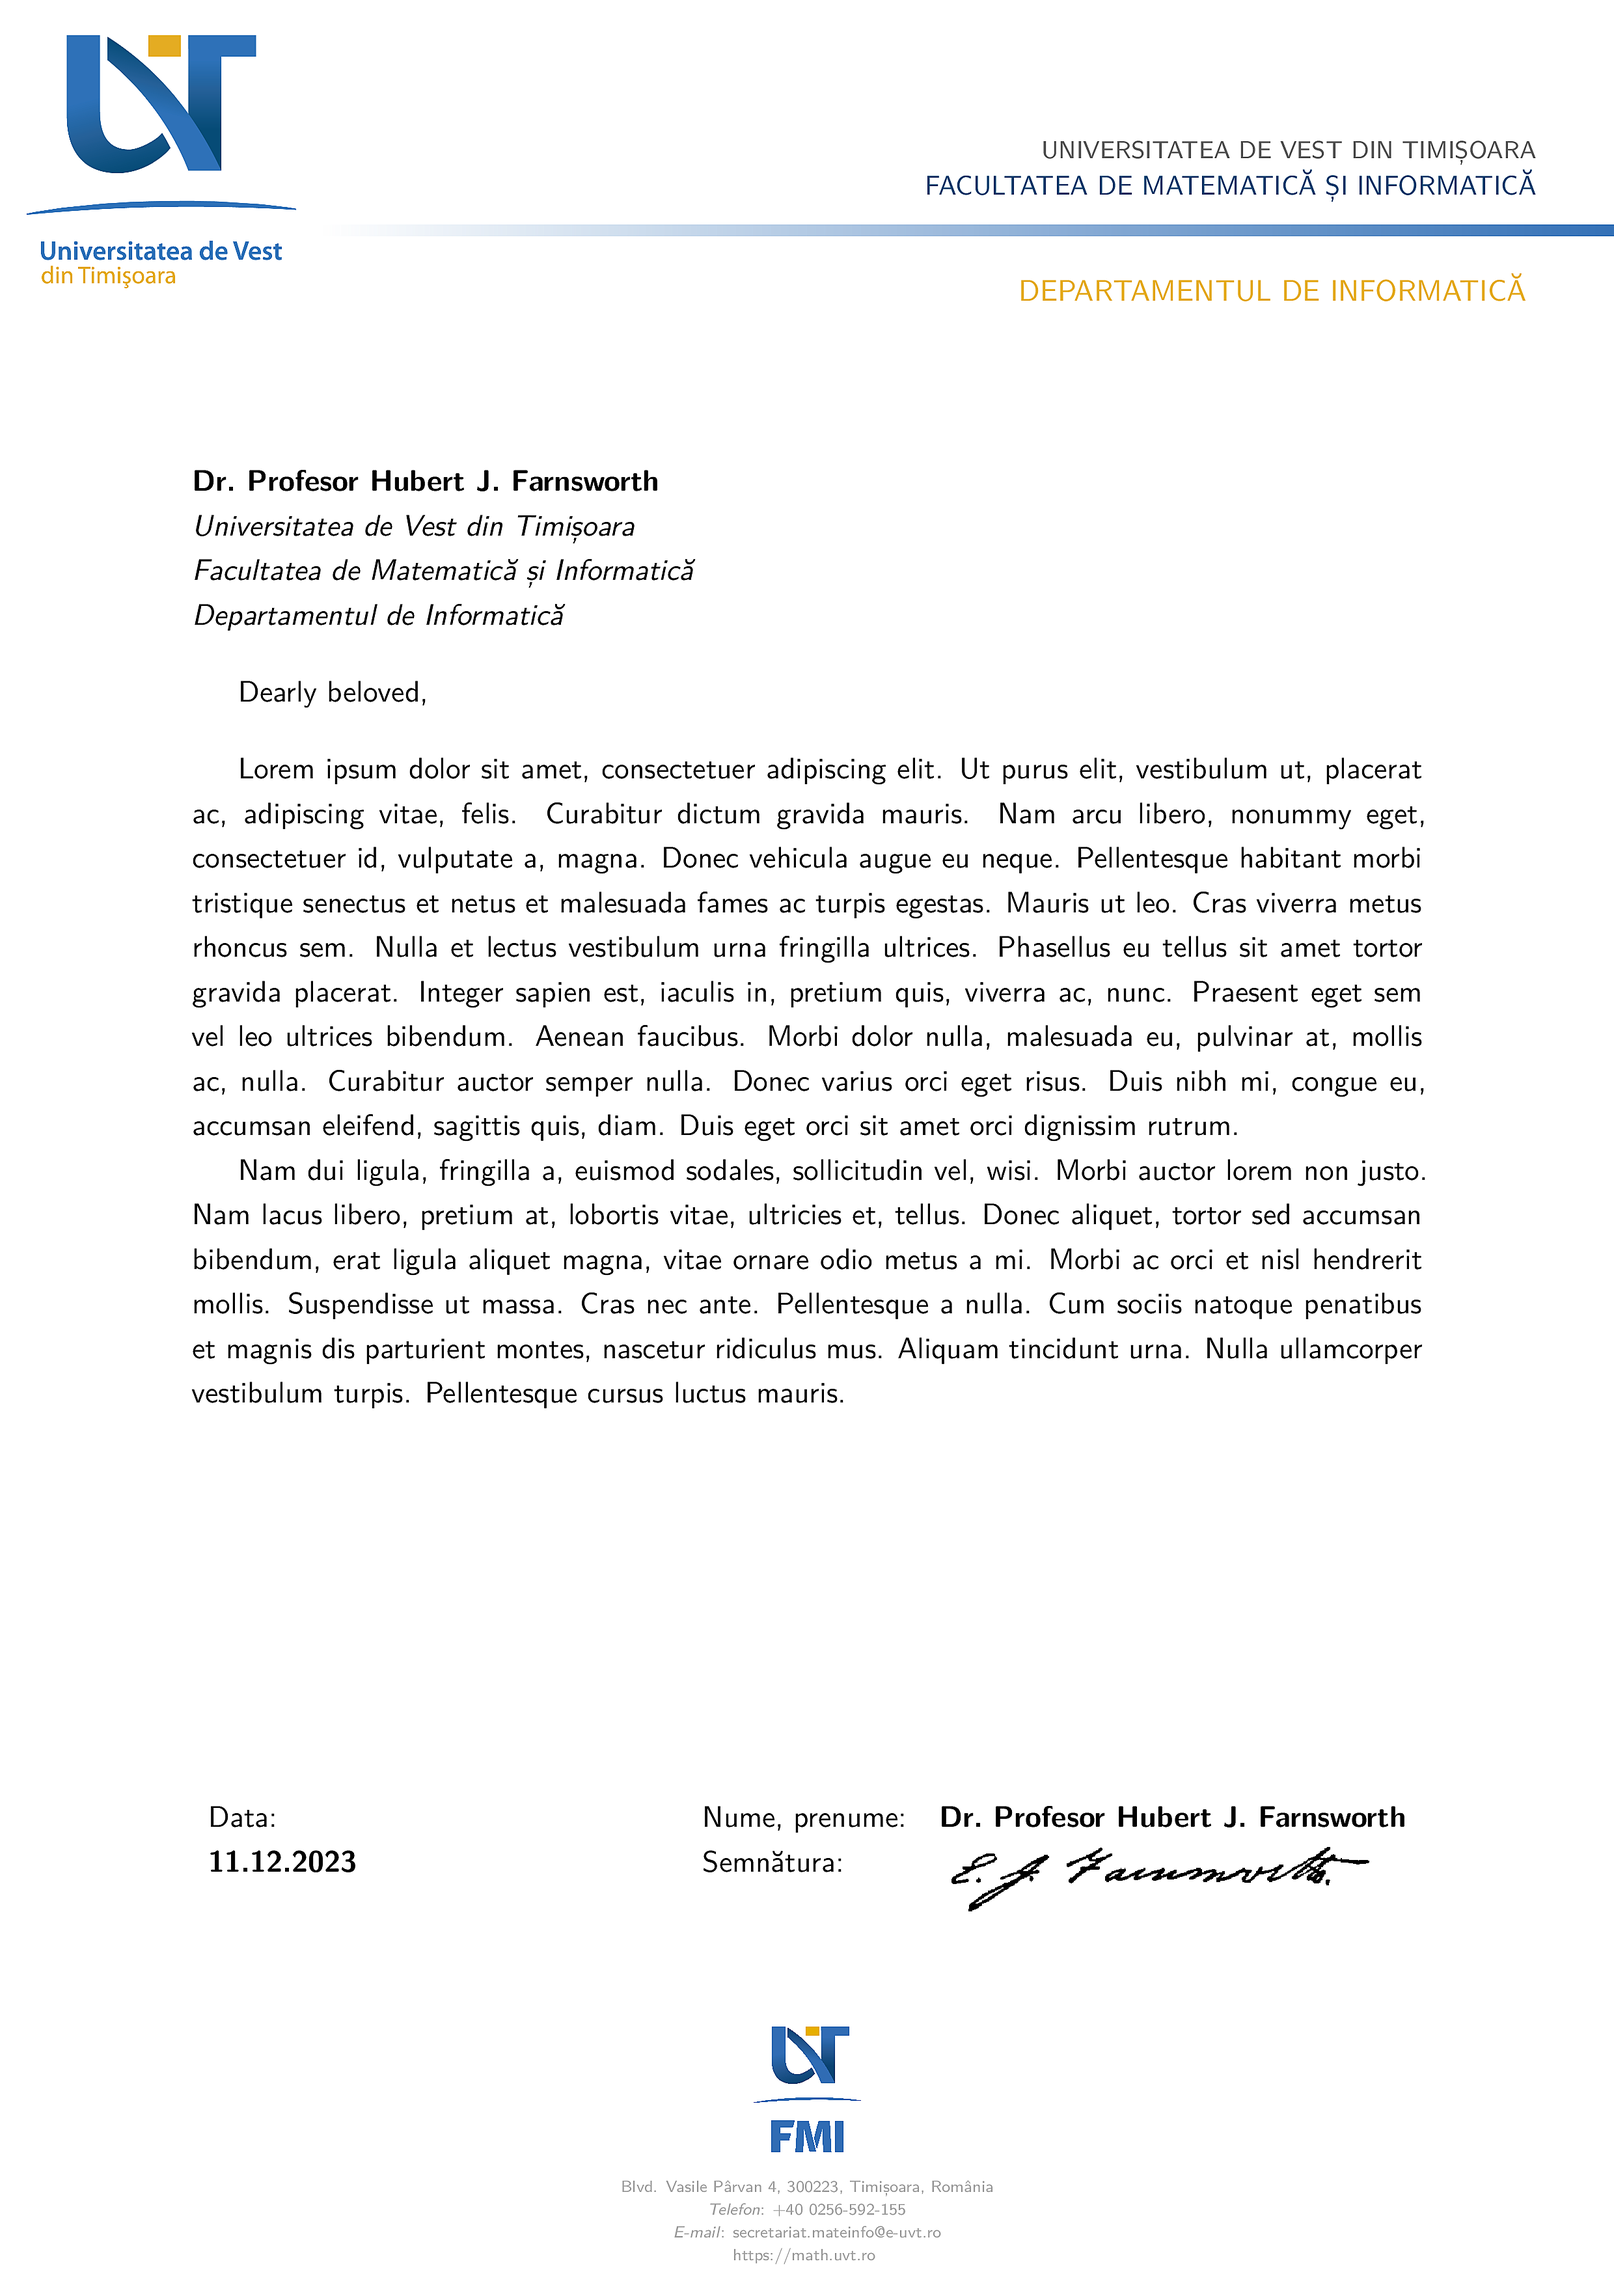
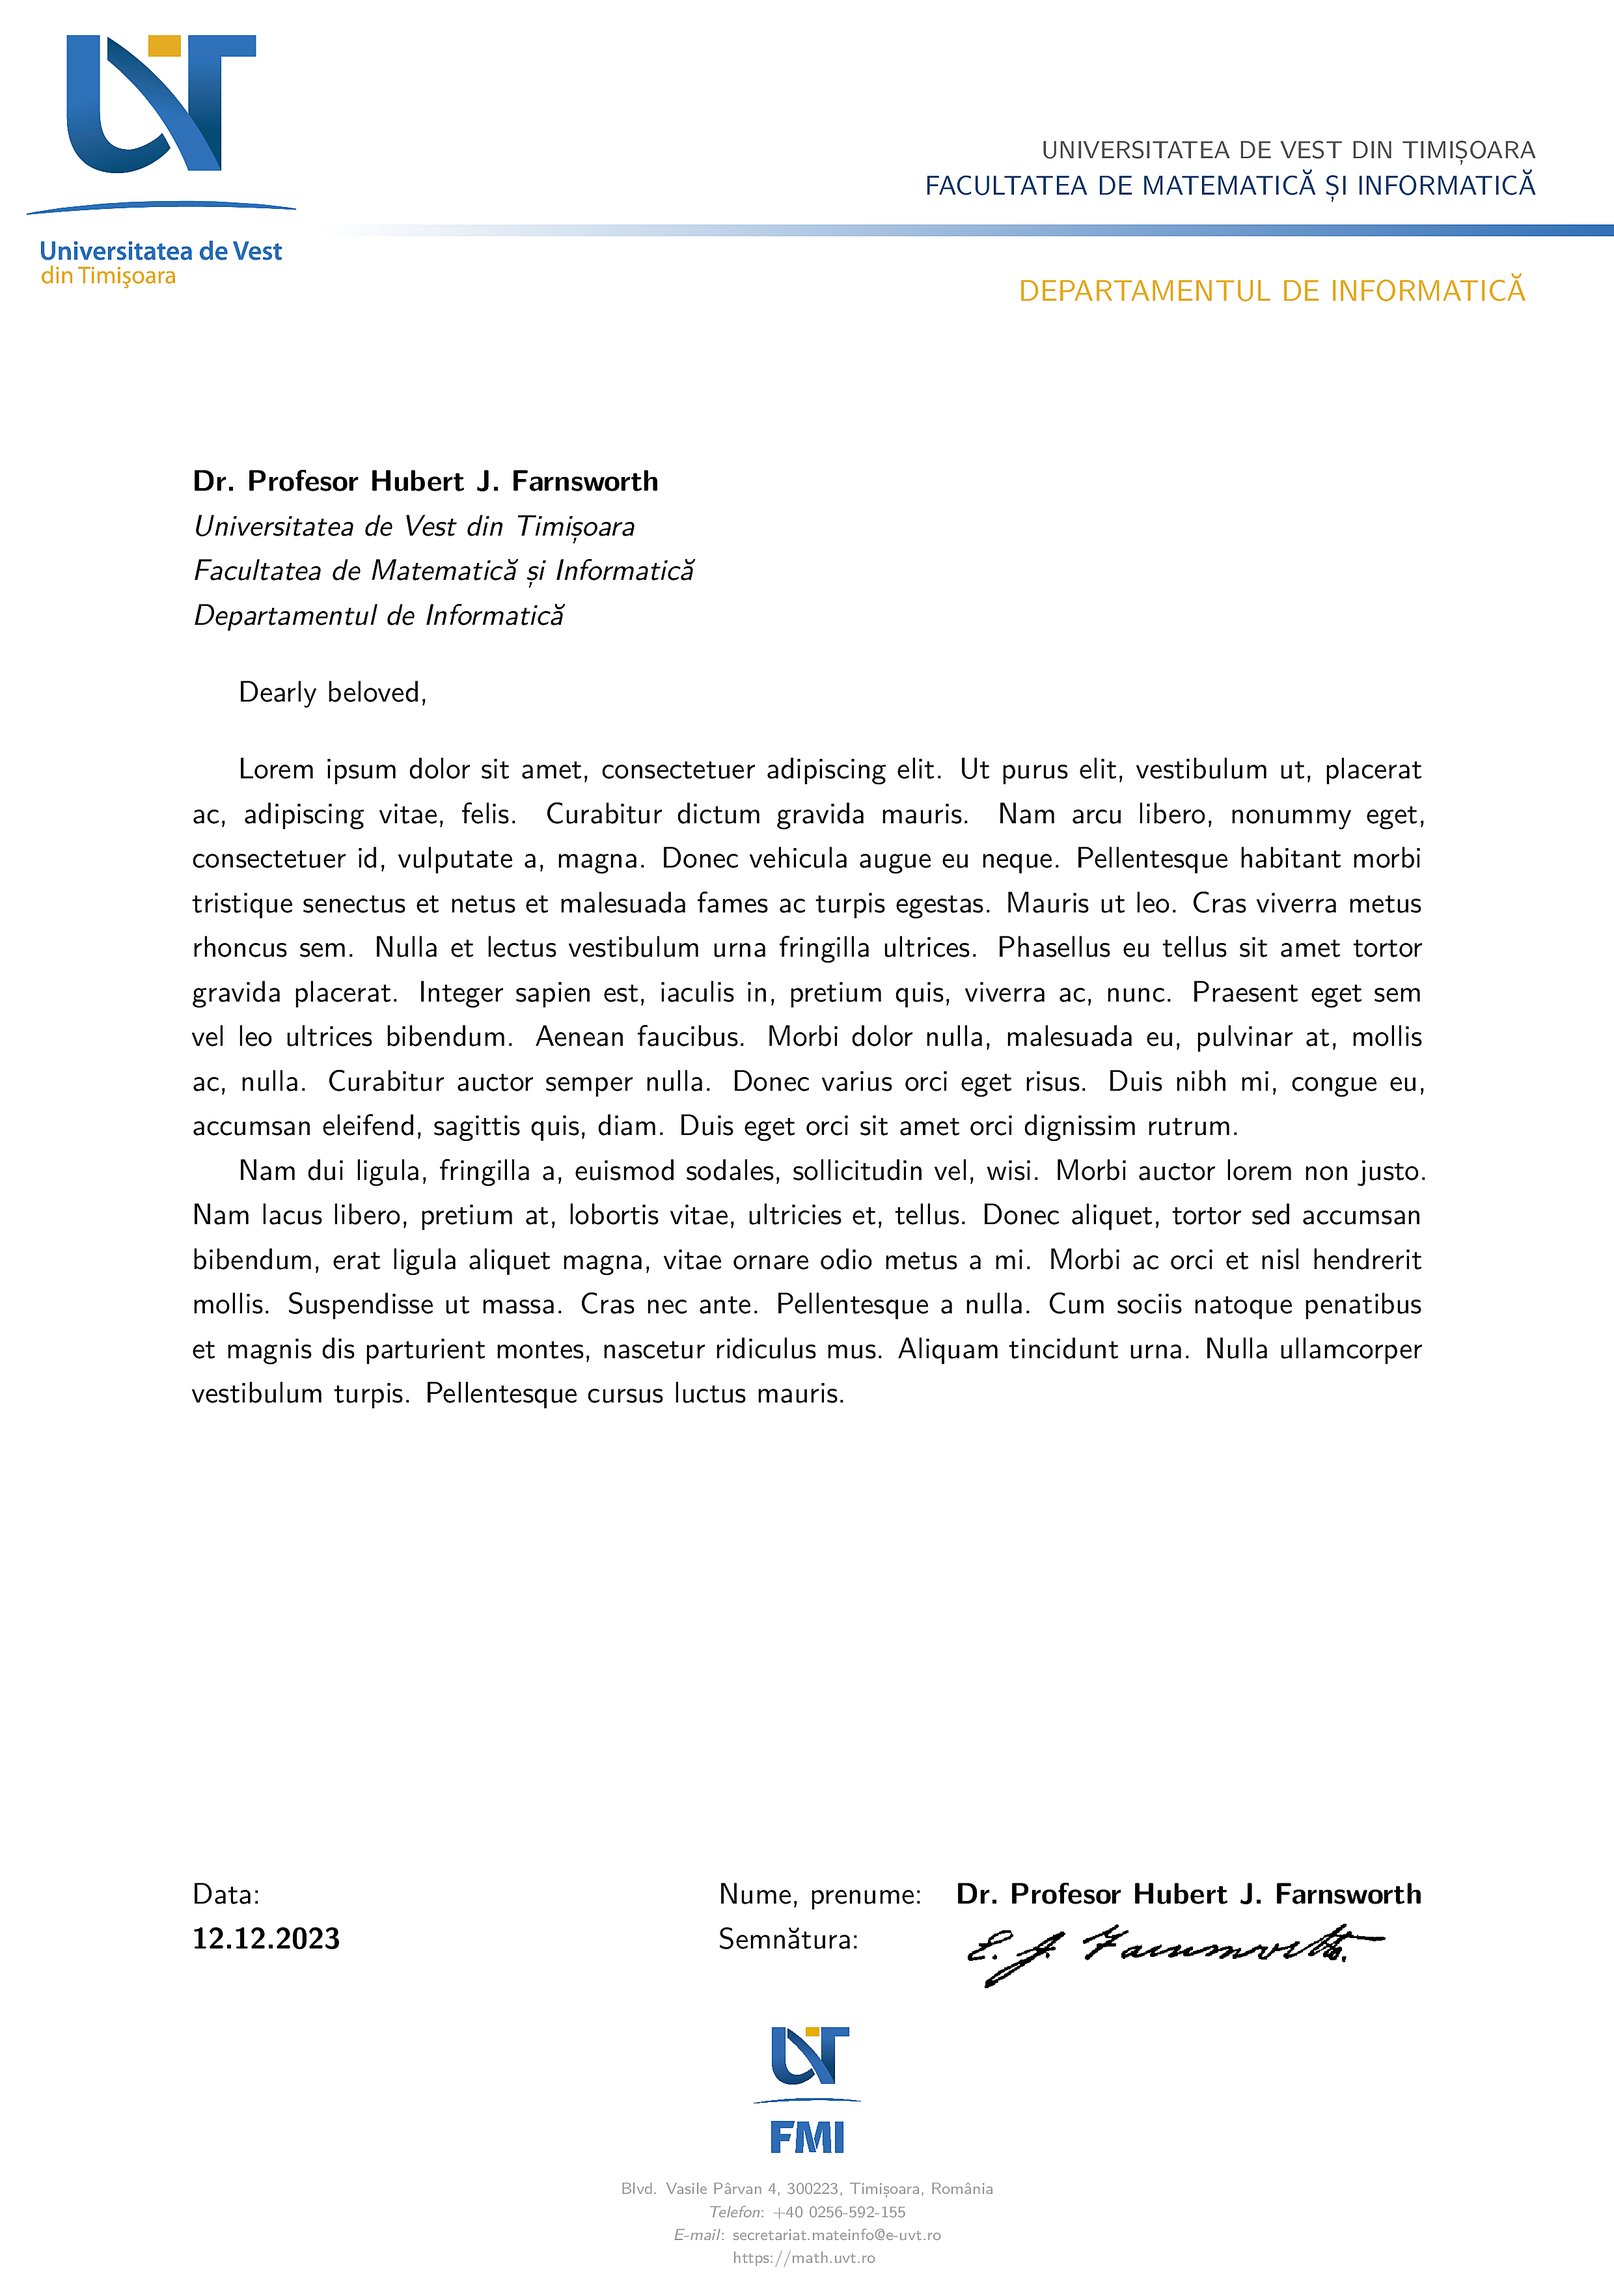
chore: update assets

diff --git a/template.tex b/template.tex
@@ -1,7 +1,6 @@
 \documentclass[11pt, a4paper]{article}
 
 \usepackage[department=fmi]{uvt-letterhead}
-\usepackage{showframe}
 
 \usepackage{babel}
 \usepackage{lipsum}
